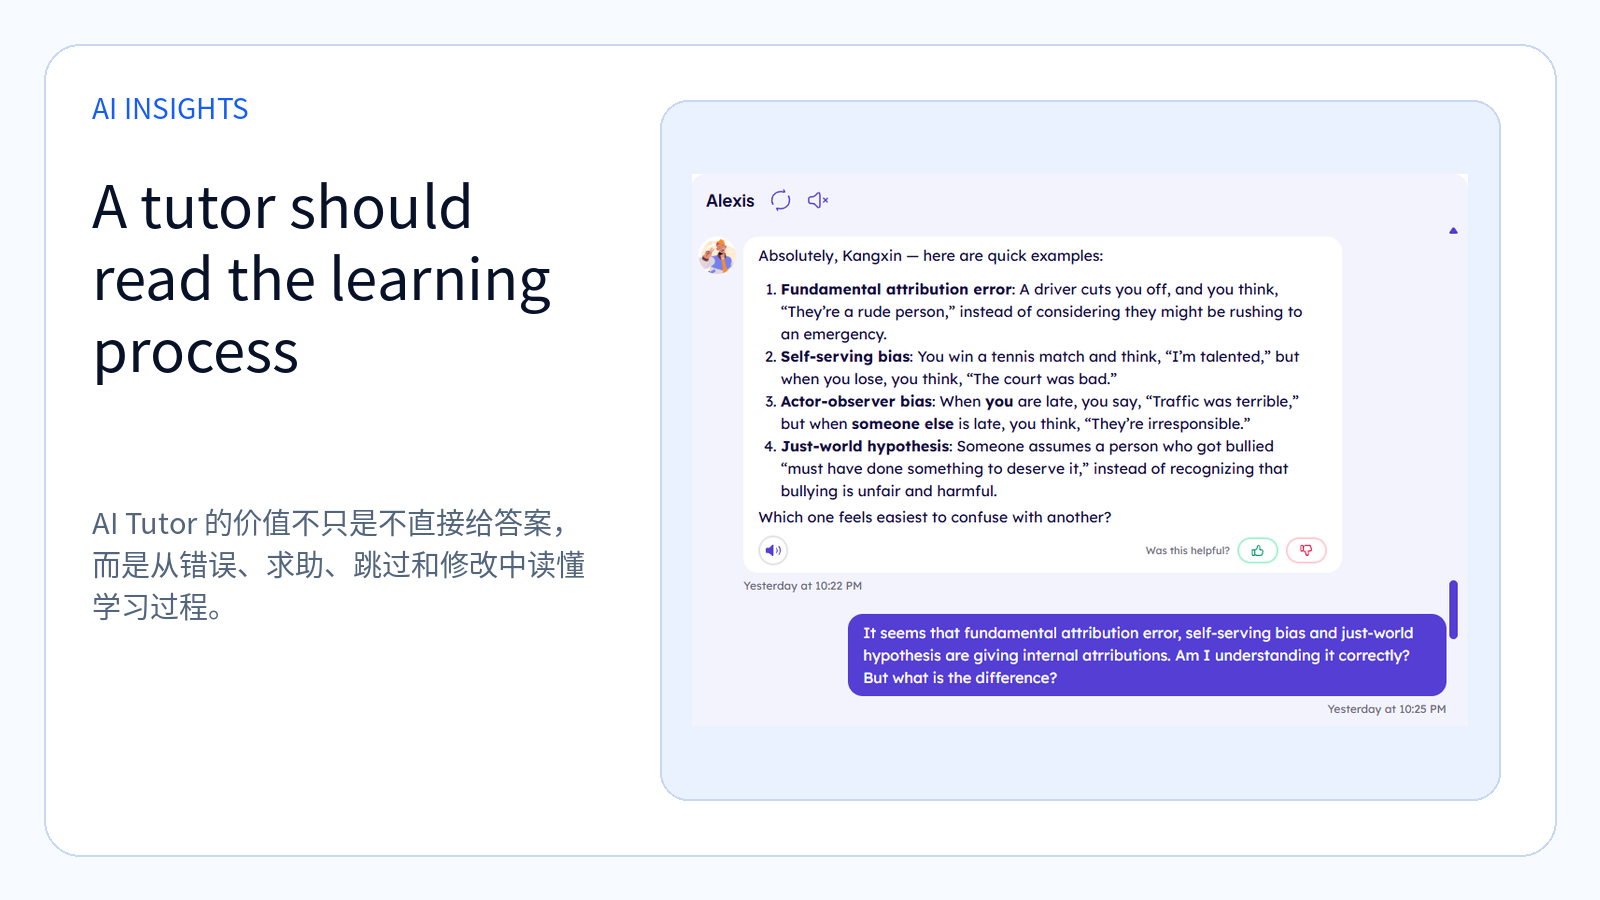
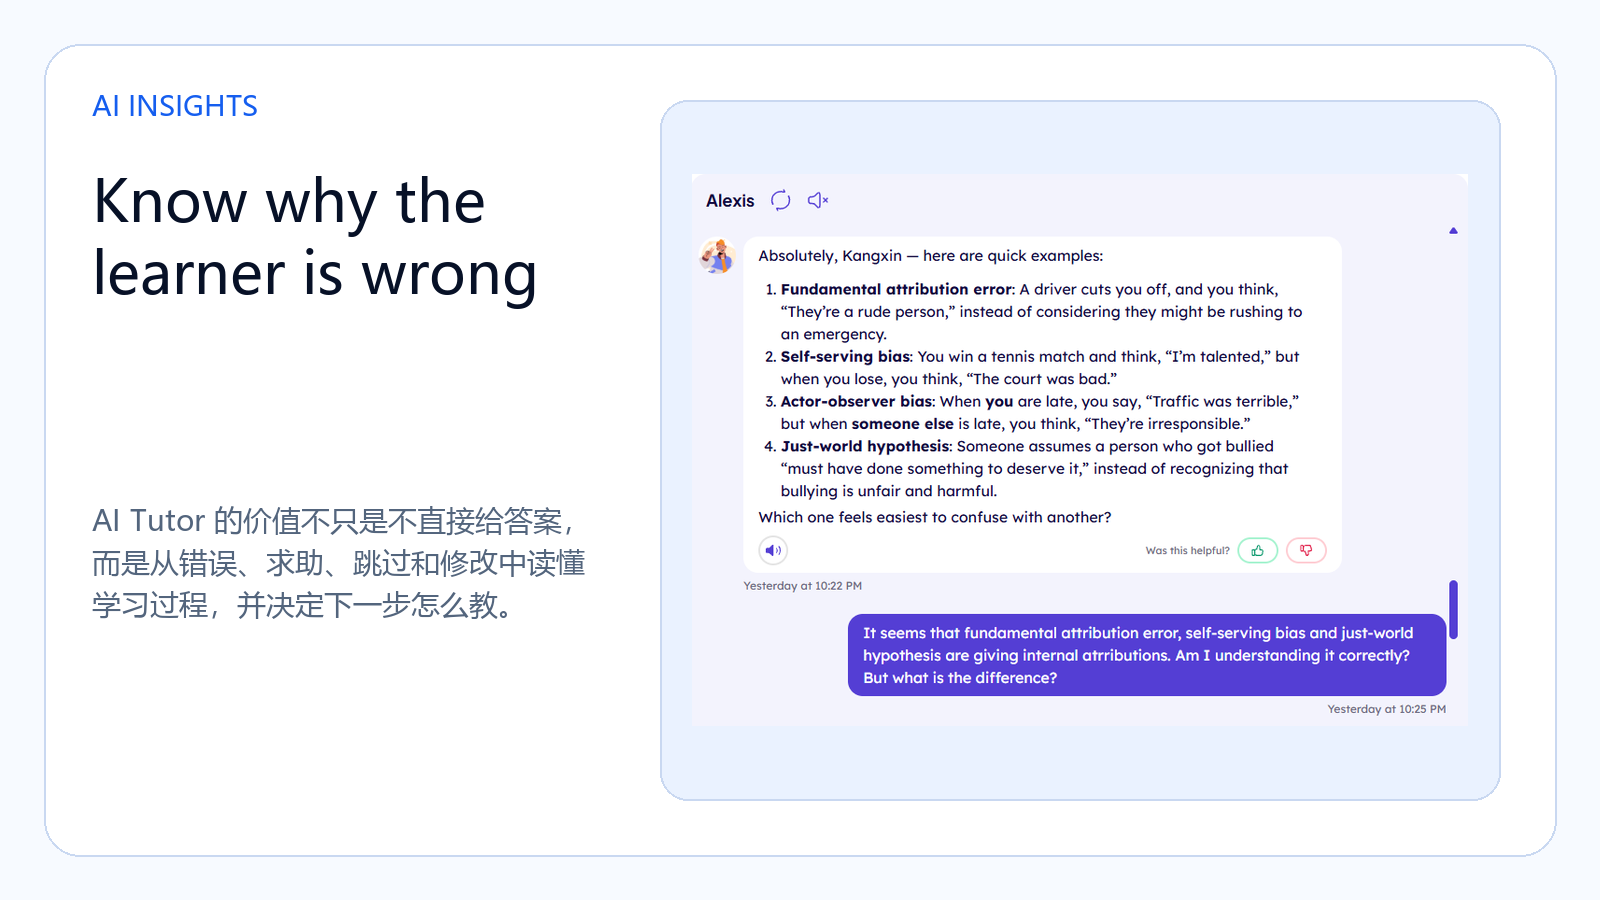
Refine AI tutor insight and social standards

diff --git a/src/ai_product_insight/social_render.py b/src/ai_product_insight/social_render.py
@@ -173,9 +173,9 @@ def render_xhs_slide(
         _draw_wrapped(draw, (90, y + 48), slide.body or bundle.key_takeaway, _font(font_path, 34), MUTED, 820, spacing=16, max_lines=6)
     elif slide.kind == "screenshot" and slide.screenshot_id in assets:
         _draw_wrapped(draw, (80, 170), slide.title, _font(font_path, 52), INK, 900, spacing=16, max_lines=3)
-        draw.rounded_rectangle((72, 330, 1008, 1085), radius=28, fill=PALE_BLUE, outline=LINE, width=2)
-        _paste_contained(canvas, assets[slide.screenshot_id], (98, 356, 982, 1059))
-        _draw_wrapped(draw, (85, 1130), slide.body, _font(font_path, 31), MUTED, 900, spacing=14, max_lines=4)
+        draw.rounded_rectangle((72, 320, 1008, 1025), radius=28, fill=PALE_BLUE, outline=LINE, width=2)
+        _paste_contained(canvas, assets[slide.screenshot_id], (98, 346, 982, 999))
+        _draw_wrapped(draw, (85, 1070), slide.body, _font(font_path, 29), MUTED, 900, spacing=13, max_lines=6)
     else:
         accent = "结论" if slide.kind == "closing" else f"0{slide.order}"
         draw.text((84, 220), accent, font=_font(font_path, 42), fill=BLUE)

diff --git a/tests/test_editorial_context.py b/tests/test_editorial_context.py
@@ -63,12 +63,18 @@ class EditorialContextTests(unittest.TestCase):
         self.assertEqual(context.profile["version"], 1)
         self.assertEqual(context.gold_input["example_id"], "ai-website-design-alignment-v1")
         self.assertEqual(len(context.gold_examples), 2)
+        self.assertEqual(context.social_gold["example_id"], "approved-social-style-v2")
         self.assertEqual(
             context.gold_examples[1].input["example_id"],
             "ai-model-workflow-role-division-v1",
         )
         for example in context.gold_examples:
             ArticleContent.model_validate(example.output)
+
+        social_prompt = context.social_prompt_suffix()
+        self.assertIn("2-4 个短段落", social_prompt)
+        self.assertIn("300-500 个中文字符", social_prompt)
+        self.assertIn("内容放不下时优先调整排版", social_prompt)
 
     def test_injects_role_specific_guidance_into_writing_agents(self):
         context = EditorialContext.load(PROJECT_ROOT)

diff --git a/src/ai_product_insight/agents.py b/src/ai_product_insight/agents.py
@@ -436,8 +436,9 @@ class EditorAgent:
 
 
 class SocialRepurposeAgent:
-    def __init__(self, llm: JsonLLM) -> None:
+    def __init__(self, llm: JsonLLM, editorial_context: EditorialContext | None = None) -> None:
         self.llm = llm
+        self.editorial_context = editorial_context
 
     def draft(self, article: ArticleDraft) -> SocialBundle:
         payload = {
@@ -449,7 +450,10 @@ class SocialRepurposeAgent:
                 "visual_source": "real screenshots supplied by the author",
             },
         }
-        raw_social = self.llm.generate_json(SOCIAL_SYSTEM, _json(payload))
+        system_prompt = SOCIAL_SYSTEM
+        if self.editorial_context:
+            system_prompt += self.editorial_context.social_prompt_suffix()
+        raw_social = self.llm.generate_json(system_prompt, _json(payload))
         return SocialBundle.model_validate(normalize_social_response(raw_social, article.slug))
 
 

diff --git a/src/ai_product_insight/editorial.py b/src/ai_product_insight/editorial.py
@@ -31,6 +31,7 @@ class EditorialContext:
     profile: dict[str, Any]
     rubric: dict[str, Any]
     gold_examples: tuple[GoldExample, ...]
+    social_gold: dict[str, Any]
 
     @property
     def gold_input(self) -> dict[str, Any]:
@@ -70,6 +71,7 @@ class EditorialContext:
             profile=_load_json_object(project_root / "config" / "editorial_profile.json"),
             rubric=_load_json_object(project_root / "config" / "editorial_rubric.json"),
             gold_examples=tuple(examples),
+            social_gold=_load_json_object(gold_dir / "social-style.json"),
         )
 
     def _render(self, role: str, examples: list[dict[str, Any]]) -> str:
@@ -110,3 +112,6 @@ class EditorialContext:
             for example in self.gold_examples
         ]
         return self._render("editor", examples)
+
+    def social_prompt_suffix(self) -> str:
+        return self._render("social_editor", [self.social_gold])

diff --git a/src/ai_product_insight/cli.py b/src/ai_product_insight/cli.py
@@ -110,7 +110,7 @@ def build_agent_crew(
         researcher=ResearchAgent(fast_llm, fetcher, config),
         analyst=InsightAgent(quality_llm, editorial_context),
         editor=EditorAgent(quality_llm, editorial_context),
-        social=SocialRepurposeAgent(quality_llm),
+        social=SocialRepurposeAgent(quality_llm, editorial_context),
     )
 
 

diff --git a/output/social/starspark-ai-math-tutor-productive-struggle/xiaohongshu.md b/output/social/starspark-ai-math-tutor-productive-struggle/xiaohongshu.md
@@ -1,21 +1,22 @@
 # 我试了3个AI Tutor，最在意的不是答案
 
-这几天我用 StarSpark、Khanmigo 和 ChatGPT Study Mode 学同一类内容，慢慢发现自己很认同它们共同的理念：不要急着把答案塞给学生。
+这几天我用 StarSpark、Khanmigo 和 ChatGPT Study Mode 学社会心理学，发现自己很认同它们共同的理念：不要急着把答案塞给学生。
 
-在 StarSpark 学归因理论时，它解释完几个概念后问我：“哪一个最容易和其他概念混淆？”这句话让我从记定义变成主动比较。后来它会一题一题测、答错后逐步给提示。但我选择 skip 时，它并没有继续追问；刷新页面后，前面的学习过程也没有留下来。
+最打动我的一刻来自 StarSpark。它解释完几个归因偏差后问我：“哪一个最容易和其他概念混淆？”这句话让我从被动记定义，变成主动比较概念。后来它会逐题测验、答错后分步提示；但我点 skip 时，它没有判断我为什么跳过，刷新后，前面的学习过程也没有延续。
 
-Khanmigo 的 Writing Coach 能看到我的 essay 框架，会发现证据和推理没有对上，并推动我真正修改。但当我明确说“总是把几个理论混淆”时，它又没有像 ChatGPT Study Mode 那样，把容易混淆的概念放在一起拆解。
+Khanmigo 的 Writing Coach 能看到 essay 框架，发现证据和推理没有对上，还会提醒我把新理解写回去。它理解的不只是上一句话，还有任务进展。但当我明确说“总是把几个理论混淆”时，它又只解释了一个概念。ChatGPT Study Mode 更进一步：它把几个相近概念重新放进一张关系图里，帮我找到区别维度。
 
-这让我觉得，AI Tutor 的关键不只是“不给答案”，而是能不能读懂每一次互动：答错、要提示、跳过、反复修改，都在说明我哪里没懂。真正好的 AI Tutor，应该越学越懂我为什么会错，再决定下一步该解释、对比、举例，还是继续测验。
+这让我觉得，AI Tutor 的价值不只是“不给答案”，而是知道我为什么会错。答错、要提示、跳过、修改后又改回去，都是学习状态。真正好的 Tutor，应该持续更新判断，再决定下一步该解释、对比、举例、撤掉提示，还是隔几天重新测试。
 
 #AI教育 #AITutor #AI产品 #产品经理 #学习方法
 
 ## 轮播结构
 
-1. [cover] AI Tutor 不该只给答案 — 更重要的是：它能不能读懂学生在学习过程中为什么会错。
-2. [screenshot] 一句追问，让我开始主动比较 — 它主动问我：哪一个概念最容易混淆？（截图：starspark-confusion）
-3. [insight] 不直接给答案，只是起点 — 学习发生在尝试、修正和建立联系的过程中，而不只发生在看到正确结果的那一刻。
-4. [screenshot] Khanmigo：没有继续追问混淆 — 重新解释了 FAE，却没有确认我究竟和谁混、为什么混。（截图：khanmigo-concept）
-5. [screenshot] ChatGPT：重新组织相近概念 — 它把相近概念放回同一张关系图里。（截图：chatgpt-concepts）
-6. [insight] 每次互动，都是学习状态 — 答错、提示、跳过和反复修改都不该被最终答案覆盖。
-7. [closing] 越学越懂你为什么会错 — 持续更新学习者模型，再选择下一步教学动作。
+1. [cover] AI Tutor 不该只给答案 — 真正的价值是从每次互动里判断学生为什么会错，并决定下一步怎么教。
+2. [screenshot] 一句追问，让我开始主动比较 — StarSpark 把被动阅读变成了主动比较。（截图：starspark-confusion）
+3. [insight] 三种体验，三种上下文理解 — 对话、任务进展和概念关系分别构成不同层次的上下文。
+4. [screenshot] Khanmigo 回应了概念，却没继续诊断 — 它没有继续确认我究竟和谁混、为什么混。（截图：khanmigo-concept）
+5. [screenshot] ChatGPT 重新画了一张概念地图 — 它用新的区分维度重组相近概念。（截图：chatgpt-concepts）
+6. [insight] 错误不是终点，而是数据 — 答错、提示、跳过和反复修改都反映学习状态。
+7. [insight] 答对一次，不等于真正掌握 — 撤掉提示并延迟复测，才能区分完成与掌握。
+8. [closing] 越学越懂你为什么会错 — 真正壁垒是学科知识、学习状态与教学动作之间的决策系统。

diff --git a/docs/operations.md b/docs/operations.md
@@ -10,7 +10,7 @@
 6. 查看 `inputs/assets/<slug>/README.md`，按固定文件名准备真实截图并隐藏敏感信息。
 7. 在 Draft PR 的 `insight-draft/...` 分支中进入对应截图目录，选择 `Add file → Upload files` 并提交。
 8. 等待 `Render social assets after screenshot upload` 完成，检查 `output/social/<slug>/rendered/` 中的 X 横图和小红书轮播图。
-9. 检查 X 英文正文不超过 280 字符，小红书正文保留真实项目细节，配图与文章判断一致。
+9. 检查 X 英文正文不超过 280 字符，并用 2–4 个短段落形成阅读节奏；小红书正文约 300–500 字，保留真实经历、摩擦和判断过程；轮播图不能只有口号，配图与文章判断一致。
 10. 将 `review_status` 改为 `approved` 后再合并；合并本身不等于发布到网站或社交平台。
 
 ## 截图上传规则
@@ -20,6 +20,7 @@
 - 本人网站与操作过程标记为 `personal`；讨论对象产品的真实界面标记为 `product`。
 - 上传前检查头像、邮箱、账号、API Key、私人对话、客户信息和浏览器书签。
 - 截图提交后会自动续跑；不需要重新运行文章生成工作流。
+- 小红书截图页也要用简短说明指出“这张图证明什么”；观点页通常应有 60–180 字，不能为了适配模板把内容压缩成一句口号。
 - 如果只想重跑配图，可在 Actions 中选择 `Render social assets after screenshot upload`，选中当前草稿分支并输入文章 slug。
 
 ## 失败排查

diff --git a/docs/development-log.md b/docs/development-log.md
@@ -105,4 +105,6 @@
 - 截图清单明确固定文件名、截取范围、用途、是否必需，以及图片来自个人项目还是讨论对象产品。
 - Draft PR 新增 `inputs/assets/<slug>/` 人工上传区；真实截图提交到草稿分支后，第二个 GitHub Actions 工作流自动续跑，不需要重新生成文章。
 - 新增蓝白视觉模板渲染器，生成 1600×900 的 X 配图和 1080×1440 的小红书轮播 PNG；截图仍是主体，模板只负责统一包装。
+- 根据人工社交内容复核补充可执行的社交金标准：X 正文用 2–4 个短段落换行，且总长度不超过 280 字符；小红书正文约 300–500 字，保留具体经历、真实摩擦和判断过程；完整体验文章优先生成 6–8 页轮播，截图页说明证据含义，观点页保留足够推理密度。
+- Social Repurpose Agent 现在会读取 `examples/gold/social-style.json`，避免社交规范只停留在单次人工修改；截图页模板同步扩大文字区域，内容放不下时优先调整排版，而不是删薄文案。
 - 截图缺失、图片损坏或字体不可用都会给出明确错误；配图仍需人工检查隐私、裁切和观点对应关系，系统不会自动发布。

diff --git a/output/social/starspark-ai-math-tutor-productive-struggle/x-post.md b/output/social/starspark-ai-math-tutor-productive-struggle/x-post.md
@@ -1,10 +1,14 @@
 # X draft
 
-I tried StarSpark, Khanmigo and ChatGPT Study Mode. I value their shared idea: don’t rush to give the answer. But an AI tutor should also read every mistake, hint request, skip and revision as evidence of how a learner thinks—then choose the next teaching move.
+I tried 3 AI tutors.
+
+All resisted rushing to the answer—and I agree with that philosophy.
+
+But the real value isn’t knowing the answer. It’s knowing why a learner is wrong: every mistake, hint request, skip and revision should update the next teaching move.
 
 ## Visual
 
 - 建议配图
-- Headline: A tutor should read the learning process
+- Headline: Know why the learner is wrong
 - Brief: Use the real StarSpark AP Psychology conversation in which the tutor asks which concepts feel easiest to confuse.
 - Alt text: A StarSpark AP Psychology chat asking which attribution bias feels easiest to confuse with another.
